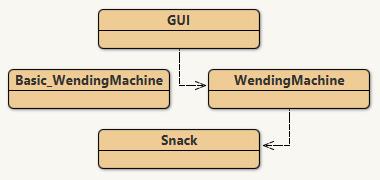
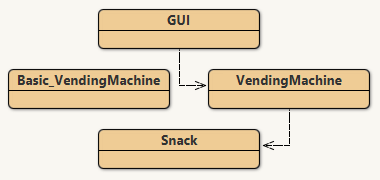
embarrassing typo

Changed region(s): [[0.0289, 0.4167, 0.4342, 0.5], [0.6079, 0.4167, 0.9263, 0.5]]

diff --git a/VendingMachine.java b/VendingMachine.java
@@ -1,5 +1,5 @@
 /**
- * WendingMachine models a naive wending machine that dispenses some snacks.
+ * VendingMachine models a naive vending machine that dispenses some snacks.
  * Git user n-c0de-r updated this naive machine to an improved one, for
  * showcasing purposes. This improved machine only accepts certain coins and
  * will return inappropriate amounts and set prices right as n-c0de-r
@@ -14,7 +14,7 @@
  * 
  * Updated to have a GUI. This can still be improved!
  */
-public class WendingMachine {
+public class VendingMachine {
     // Name of the snack producing company.
     private String brand;
     // The price of a snack from this machine.
@@ -45,7 +45,7 @@ public class WendingMachine {
      * @param name  The brand of the producing company.
      * @param cost  A single snack cost in Euro cents.
      */
-    public WendingMachine(String name, int cost) {
+    public VendingMachine(String name, int cost) {
         brand = name.toUpperCase();
         price = checkAmount(cost);
         balance = 0;
@@ -59,7 +59,7 @@ public class WendingMachine {
      * 
      * @param cost  The price for snacks of this machine.
      */
-    public WendingMachine(int cost) {
+    public VendingMachine(int cost) {
         this("BlueJ", cost);
     }
 
@@ -67,7 +67,7 @@ public class WendingMachine {
      * Create a machine without parameters.
      * Overload constructor, price is set to 300 cents.
      */
-    public WendingMachine() {
+    public VendingMachine() {
         this(300);
     }
 
@@ -115,7 +115,7 @@ public class WendingMachine {
     }
 
     /**
-     * This method empties the wending machine.
+     * This method empties the vending machine.
      */
     public void empty() {
         total = 0;

diff --git a/GUI.java b/GUI.java
@@ -22,7 +22,7 @@ import javax.swing.border.EmptyBorder;
  */
 public class GUI implements ActionListener {
 
-    private WendingMachine machine;
+    private VendingMachine machine;
     private JFrame frame;
     private JTextField display;
     private JButton cancel, discount, empty, price;
@@ -32,20 +32,20 @@ public class GUI implements ActionListener {
     /**
      * Basic constructor for a Gui. Takes a wending machine as a parameter.
      * 
-     * @param WendingMachine    A wending machine to make a GUI for.
+     * @param VendingMachine    A wending machine to make a GUI for.
      */
-    public GUI(WendingMachine WendingMachine) {
-        machine = WendingMachine;
+    public GUI(VendingMachine VendingMachine) {
+        machine = VendingMachine;
         makeFrame();
         frame.setVisible(true);
     }
 
     /**
      * Simple constructor for a standard wending machine.
-     * Overload constructor, passes on a new standard Wending Machine.
+     * Overload constructor, passes on a new standard Vending Machine.
      */
     public GUI() {
-        this(new WendingMachine());
+        this(new VendingMachine());
     }
 
     /**
@@ -61,7 +61,7 @@ public class GUI implements ActionListener {
      * Creates the GUI Frame
      */
     private void makeFrame() {
-        frame = new JFrame(machine.getBrand() + " Wending Machine");
+        frame = new JFrame(machine.getBrand() + " Vending Machine");
 
         JPanel contentPane = (JPanel) frame.getContentPane();
         contentPane.setLayout(new BorderLayout(8, 8));

diff --git a/Basic_VendingMachine.java b/Basic_VendingMachine.java
@@ -1,5 +1,5 @@
 /**
- * WendingMachine models a naive wending machine that dispenses some snacks.
+ * VendingMachine models a naive vending machine that dispenses some snacks.
  * Git user n-c0de-r updated this naive machine to an improved one, for
  * showcasing purposes. This improved machine only accepts certain coins and
  * will return inappropriate amounts and set prices right as n-c0de-r
@@ -12,7 +12,7 @@
  * @author n-c0de-r
  * @version 2023.02.05
  */
-public class Basic_WendingMachine
+public class Basic_VendingMachine
 {
     // The price of a snack from this machine.
     private int price;
@@ -30,7 +30,7 @@ public class Basic_WendingMachine
      * 
      * @param cost  The cost of a snack in this machine.
      */
-    public Basic_WendingMachine(int cost)
+    public Basic_VendingMachine(int cost)
     {
         // Assignment 1
         // int prince = cost;
@@ -42,7 +42,7 @@ public class Basic_WendingMachine
     /**
      * Assignment 2, duplicate constructor
      */
-    // public Basic_WendingMachine(int cost)
+    // public Basic_VendingMachine(int cost)
     // {
     // int prince = cost;
     // balance = 0;

diff --git a/Snack.java b/Snack.java
@@ -2,7 +2,7 @@ import java.time.LocalDateTime;
 import java.time.format.DateTimeFormatter;
 
 /**
- * Snack represents a snack dispensed by the WendingMachine.
+ * Snack represents a snack dispensed by the VendingMachine.
  * Being it's own object, could use some own methods, too.
  *
  * @author n-c0de-r

diff --git a/README.md b/README.md
@@ -4,7 +4,7 @@ Purpose of project: To illustrate the basics of fields, constructors, and method
 <img src="BlueJ_screenshot.png">
 
 Description from the project:
- WendingMachine models a naive wending machine that dispenses some snacks.
+ VendingMachine models a naive vending machine that dispenses some snacks.
  Git user n-c0de-r updated this naive machine to an improved one, for
  showcasing purposes. This improved machine only accepts certain coins and
  will return inappropriate amounts and set prices right as n-c0de-r
@@ -18,4 +18,4 @@ Description from the project:
   
   Updated to have a GUI. This can still be improved!
   
-  <img src="WendingMachine_show.gif">
+  <img src="VendingMachine_show.gif">
